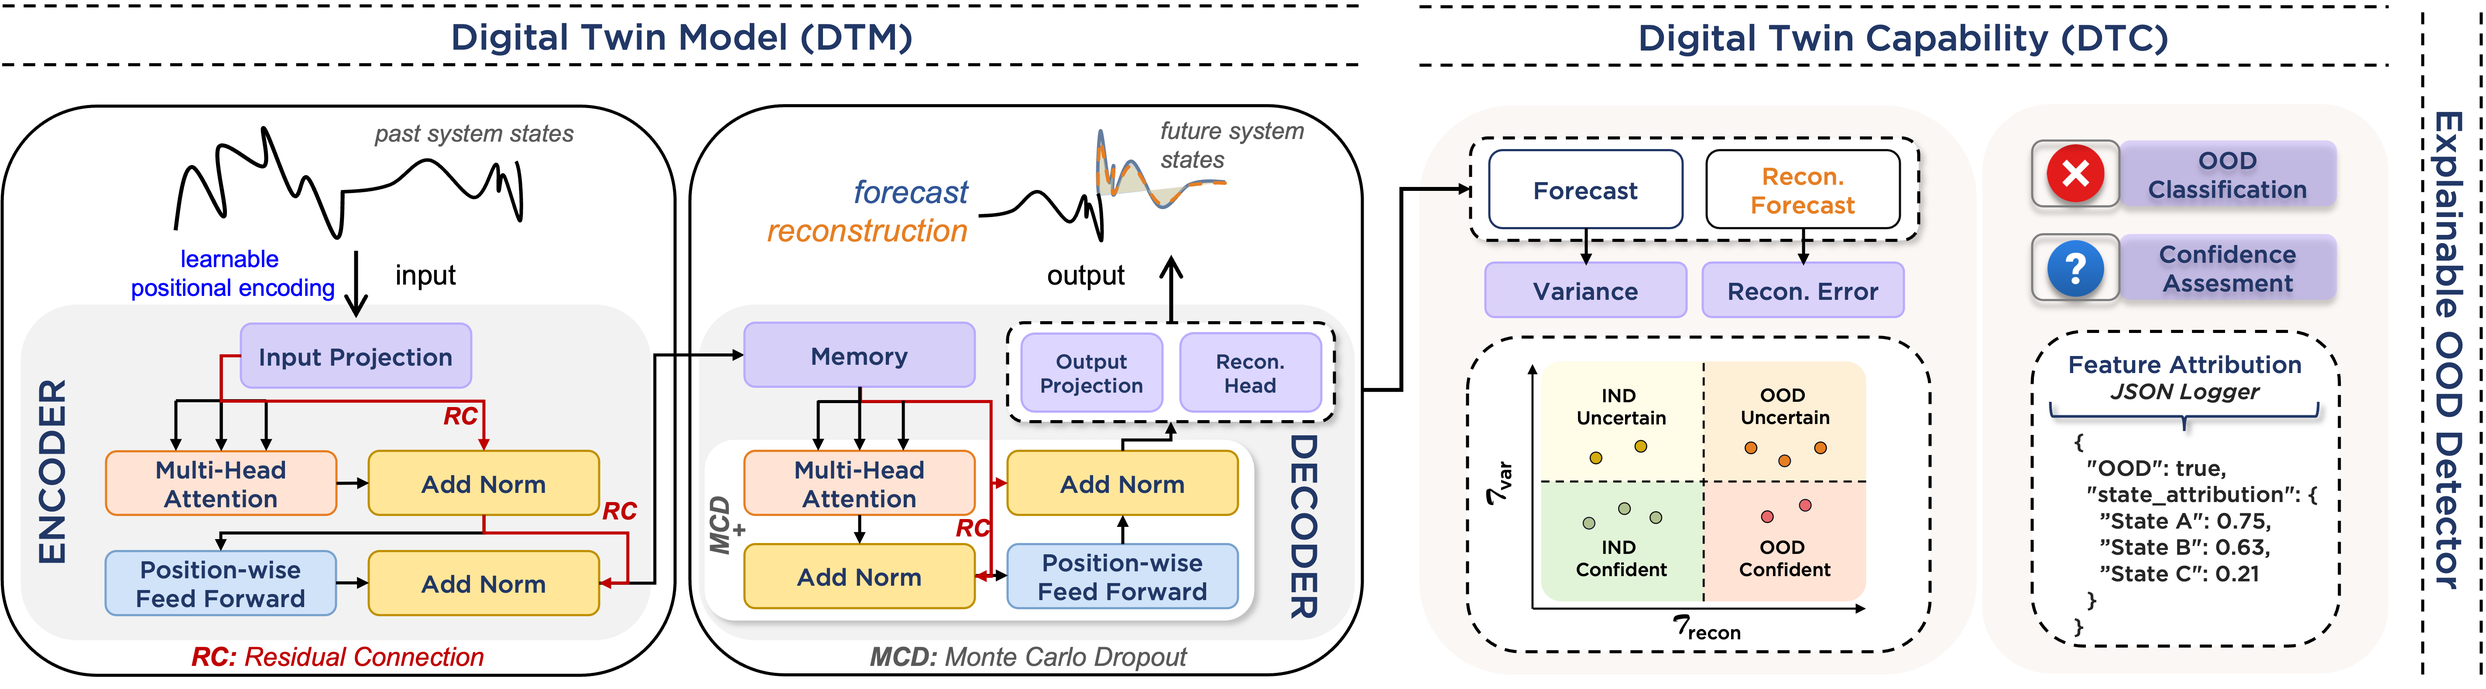
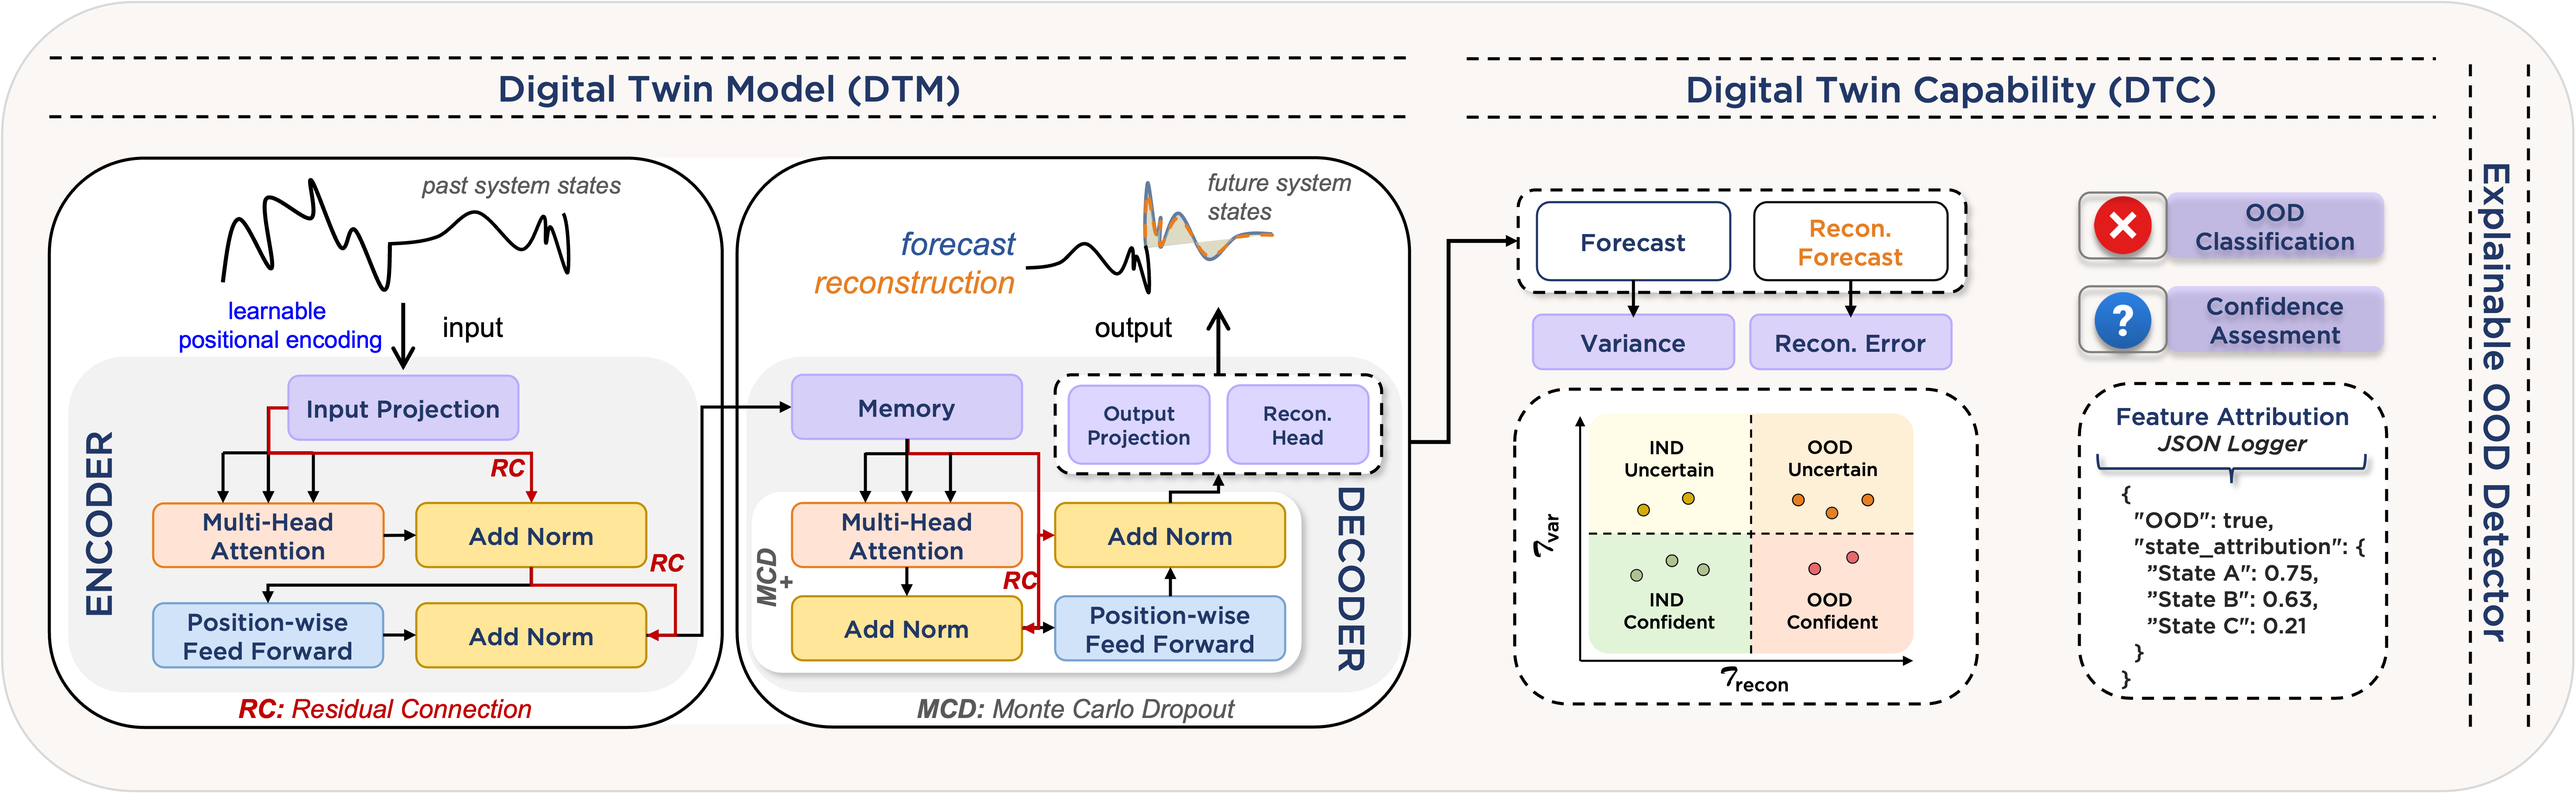
update readme file

diff --git a/README.md b/README.md
@@ -17,16 +17,7 @@ This capability aligns with the **Monitor** and **Analyze** phases of the **MAPL
 
 ---
 
-<!-- ![DT Overview](assets/final-overview-diagram.png) -->
-
-<p align="center">
-  <a href="assets/final-overview-diagram.pdf" target="_blank">
-    <img src="https://github.com/Simula-COMPLEX/dt-ood-detection/blob/main/assets/final-overview-diagram.pdf" 
-         alt="DT Overview"
-         style="max-width: 100%; height: auto;" />
-  </a>
-</p>
-
+![DT Overview](assets/final-overview-diagram.png)
 
 > **Overview**: The Transformer-based Digital Twin Model (DTM) takes historical input and produces both forecasted and reconstructed future system states. The Digital Twin Capability (DTC) analyzes these outputs using reconstruction error and uncertainty (via MC Dropout) to detect potential OOD instances. The Explainable OOD Detector combines this analysis to flag OOD states and attributes them to the most contributing system features.
 
